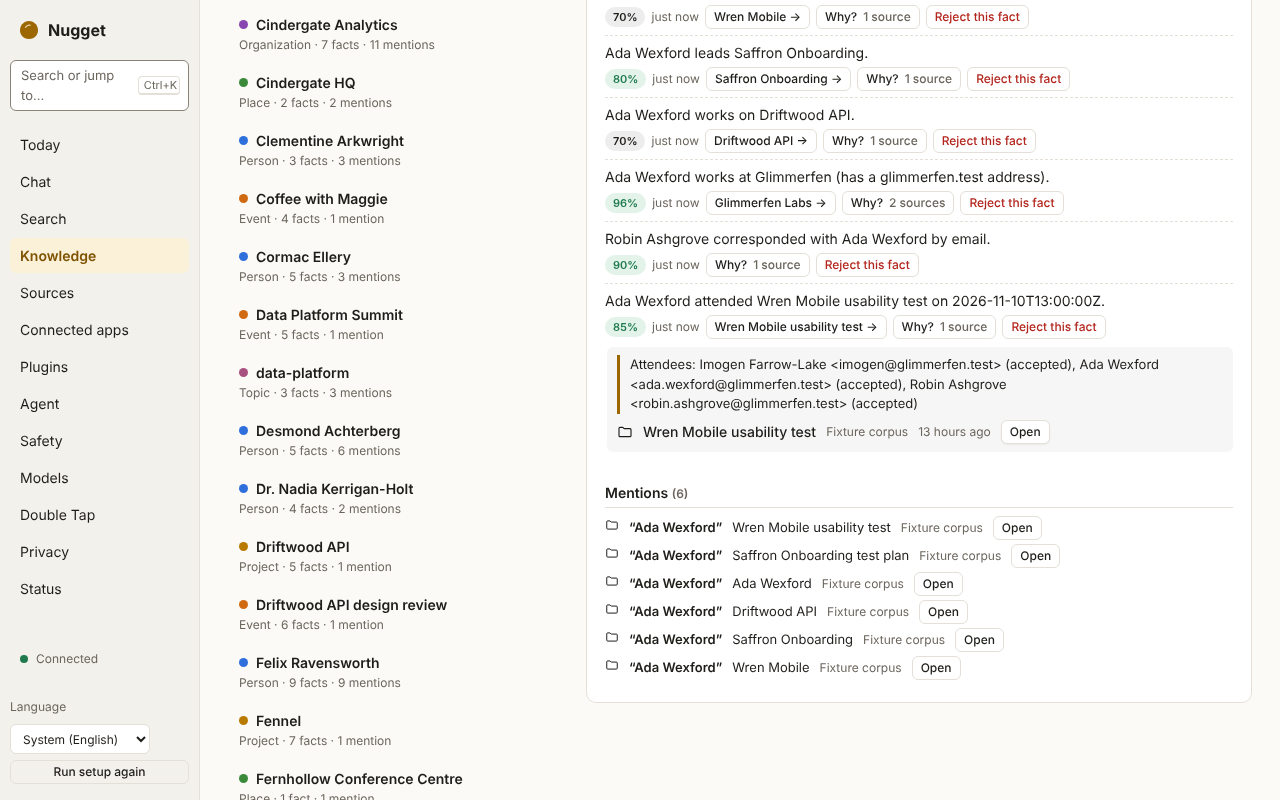
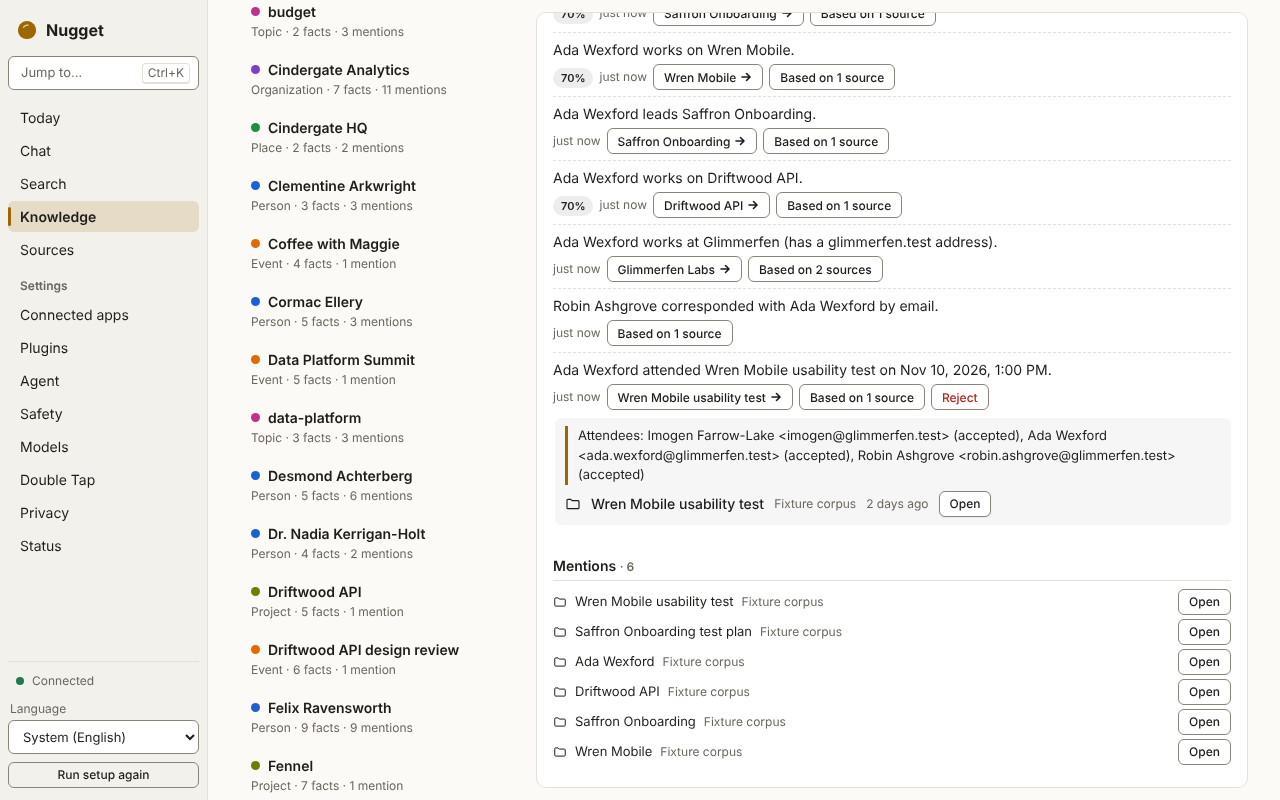
Docs: refresh the app screenshots after the UI polish; follow renamed buttons
Screenshots in docs/book/src/images/screenshots (used by the README and the
guide) retaken with pnpm run screenshots. The guide now names 'Ask a question',
'Based on N sources' and 'Show N sources'. The e2e README documents review.mjs.

Claude-Session: https://claude.ai/code/session_01CTjRSq7tP1Q1H28H8EZ9EV

diff --git a/docs/book/src/guide/knowledge.md b/docs/book/src/guide/knowledge.md
@@ -127,7 +127,7 @@ yourself can be withdrawn the same way. Over IPC, `knowledge.claim.status` sets 
 
 ## In the desktop app
 
-The **Knowledge** page lists entities by kind, shows each entity's facts with a **Why?** button that
+The **Knowledge** page lists entities by kind, shows each entity's facts with a **Based on N sources** button that
 opens the evidence, lets you merge duplicates and reject wrong facts, and opens the entity's vault
 page. It also shows how many entities and facts there are and how many items are waiting for
 extraction. `knowledge.status` adds the last run, the model used for LLM extraction, and vault pages
@@ -135,14 +135,14 @@ that failed validation or have merge conflicts. The **graph view** draws the nei
 
 <picture>
   <source media="(prefers-color-scheme: dark)" srcset="../images/screenshots/knowledge-dark.png">
-  <img src="../images/screenshots/knowledge-light.png" alt="The Knowledge page: the entity list, and Ada Wexford's details with her facts, each with a confidence, a Why? button and a Reject button" loading="lazy">
+  <img src="../images/screenshots/knowledge-light.png" alt="The Knowledge page: the entity list, and Ada Wexford's details with her facts, each with its sources button, and a confidence where it is below 80%" loading="lazy">
 </picture>
 
-**Why?** opens the evidence for a fact: the quoted passage and the item it came from.
+**Based on N sources** opens the evidence for a fact: the quoted passage and the item it came from.
 
 <picture>
   <source media="(prefers-color-scheme: dark)" srcset="../images/screenshots/knowledge-why-dark.png">
-  <img src="../images/screenshots/knowledge-why-light.png" alt="A fact's evidence opened with Why?: a quote from the Wren Mobile usability test calendar event and a link to open it" loading="lazy">
+  <img src="../images/screenshots/knowledge-why-light.png" alt="A fact's evidence opened with Based on 1 source: a quote from the Wren Mobile usability test calendar event and a link to open it" loading="lazy">
 </picture>
 
 <picture>

diff --git a/apps/desktop/e2e/README.md b/apps/desktop/e2e/README.md
@@ -322,6 +322,16 @@ onboarding the test chooses "Bring your own key", selects the OpenAI-compatible 
 Then `config.toml` has a `[[providers]]` table with `api_key = "keychain:…"` and neither it nor the
 daemon logs contain the key; `egress.recent` and the Privacy page show requests to 127.0.0.1.
 
+## Design review screenshots
+
+`node e2e/review.mjs` (not part of `pnpm run e2e`; it checks nothing) captures every page, its
+main views and dialogs, every onboarding step and the Double Tap overlay in each phase, in light
+and dark, in English, Arabic and German, at 900×600 and 1600×1000, plus each page's empty,
+loading and error state, into `e2e/artifacts/review/<locale>-<theme>-<size>/`. Scrolled content is
+captured by growing the window to fit. `REVIEW_LOCALES`, `REVIEW_THEMES`, `REVIEW_SIZES`,
+`REVIEW_ONLY` (screen-name prefixes) and `REVIEW_STATES=0` narrow the run; it uses the existing
+`dist/` (`E2E_DIST`) and the same `NUGGETD`. About 20 minutes for the whole matrix.
+
 ## Artifacts
 
 `e2e/artifacts/` (git-ignored; CI uploads it as `desktop-e2e`): a numbered screenshot per page and

diff --git a/README.md b/README.md
@@ -69,7 +69,7 @@ The desktop app on a fictional corpus (light or dark follows your system). More 
 <p>
 <picture>
   <source media="(prefers-color-scheme: dark)" srcset="docs/book/src/images/screenshots/knowledge-why-dark.png">
-  <img src="docs/book/src/images/screenshots/knowledge-why-light.png" alt="Knowledge: the facts about Ada Wexford, one opened with Why? to show the quoted calendar event" width="49%">
+  <img src="docs/book/src/images/screenshots/knowledge-why-light.png" alt="Knowledge: the facts about Ada Wexford, one opened with Based on 1 source to show the quoted calendar event" width="49%">
 </picture>
 <picture>
   <source media="(prefers-color-scheme: dark)" srcset="docs/book/src/images/screenshots/today-dark.png">

diff --git a/docs/book/src/images/screenshots/README.md b/docs/book/src/images/screenshots/README.md
@@ -35,7 +35,7 @@ daemon's uptime, so those two change on every run.
 | `search` | Search for "Tidewater budget" | `guide/search-ask.md`, `README.md` |
 | `chat` | Chat, a cited answer | `guide/search-ask.md`, `README.md` |
 | `knowledge` | Knowledge, Ada Wexford | `guide/knowledge.md` |
-| `knowledge-why` | Knowledge, a fact's evidence (Why?) | `guide/knowledge.md`, `README.md` |
+| `knowledge-why` | Knowledge, a fact's evidence (Based on N sources) | `guide/knowledge.md`, `README.md` |
 | `graph` | Knowledge, the graph view | `guide/knowledge.md` |
 | `sources` | Sources | `guide/sources.md` |
 | `safety` | Safety | `guide/safety.md` |

diff --git a/docs/book/src/guide/first-run.md b/docs/book/src/guide/first-run.md
@@ -53,7 +53,7 @@ After setup, or to check on things later:
    [Adding sources](sources.md).
 4. Watch the **Indexing** widget. Items become searchable as they are indexed; you do not have to
    wait for the whole backfill.
-5. Try **Search**, then **Ask with context**. See [Search and Ask](search-ask.md).
+5. Try **Search**, then **Ask a question**. See [Search and Ask](search-ask.md).
 6. Open **Knowledge** to see the people, organisations and facts found so far, and
    **Connected AI apps** to let Claude Desktop, Claude Code or Cursor read them over
    [MCP](mcp.md).

diff --git a/docs/book/src/guide/privacy.md b/docs/book/src/guide/privacy.md
@@ -36,7 +36,7 @@ Features you will see:
 | Feature | Caused by |
 |---|---|
 | `chat` | A chat in the Chat page to a non-local provider |
-| `ask` | Ask with context to a non-local provider |
+| `ask` | Ask a question with a non-local provider |
 | `embed` | Embeddings sent to a non-local embedding provider (only if you opted in, or a LAN server) |
 | `triage` | Triage on a local-network provider (cloud is never used for triage) |
 | `knowledge` | LLM fact extraction on a non-local provider (only for sources you allowed) |

diff --git a/docs/book/src/guide/today.md b/docs/book/src/guide/today.md
@@ -29,7 +29,7 @@ Cards start from fixed, deterministic rules, not from a model:
 Newsletters, mailing lists and automated senders (no-reply addresses, automatic replies) never count
 as unanswered threads.
 
-Every card carries its **evidence**: the items and quotes it came from. **Why?** on a card opens
+Every card carries its **evidence**: the items and quotes it came from. **Show N sources** on a card opens
 them, together with the top factors behind its rank.
 
 ## How cards are ranked

diff --git a/docs/book/src/guide/search-ask.md b/docs/book/src/guide/search-ask.md
@@ -30,7 +30,7 @@ cloud embedding provider unless you set
 
 ## Ask
 
-**Ask with context** (on the Search page) answers a question from your own data:
+**Ask a question** (on the Search page) answers a question from your own data:
 
 1. Nugget picks the model first: by default the first provider that serves the `synthesis` tier.
 2. It retrieves the most relevant passages and packs them into a token budget, each under a numbered

diff --git a/docs/book/src/guide/accessibility.md b/docs/book/src/guide/accessibility.md
@@ -57,7 +57,7 @@ In the knowledge graph (focus the canvas first):
 | `+` `-` | Zoom in and out |
 | 0 or F | Fit the graph to the view |
 | Enter or Space | Open the focused entity |
-| C | Centre on the focused entity |
+| C | Center on the focused entity |
 | Escape | Clear the focus (Tab then leaves the canvas) |
 
 ## How it is tested
